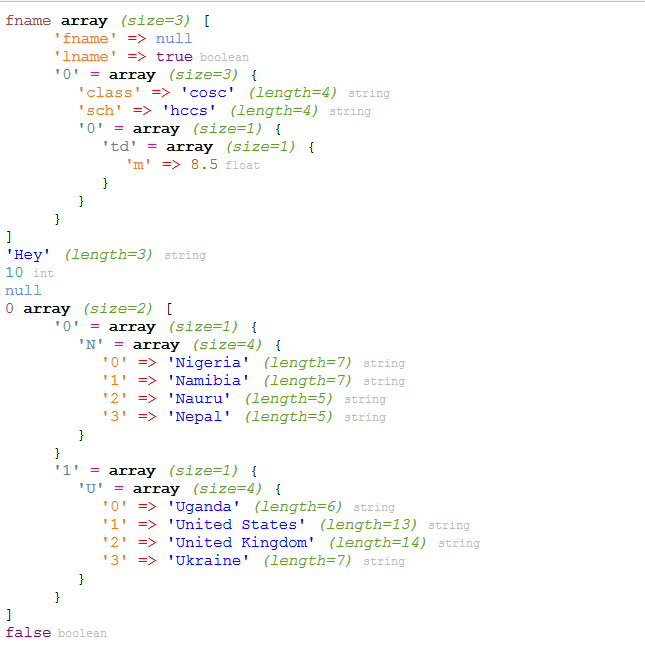
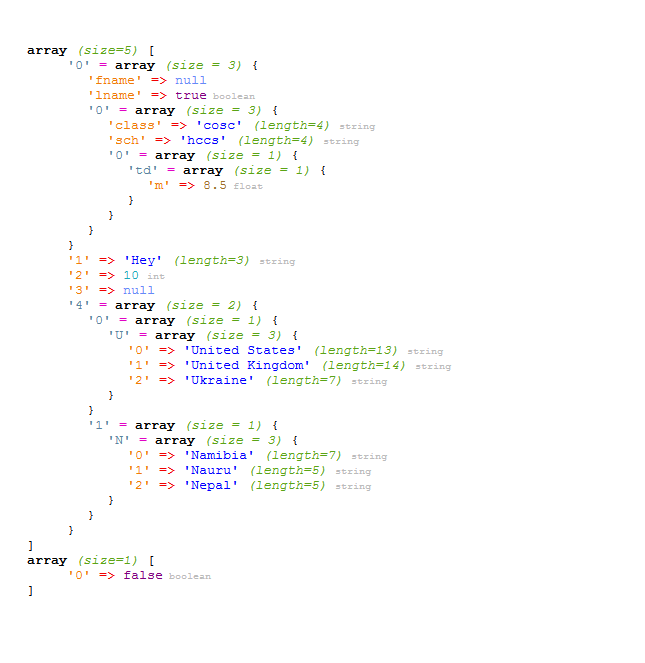
Array update

diff --git a/index.php b/index.php
@@ -8,8 +8,8 @@ $m[] = $c;
 
 $country = array
          (
-            array("N" => array('Nigeria', 'Namibia', 'Nauru', 'Nepal')),
-            array("U" => array('Uganda', 'United States', 'United Kingdom', 'Ukraine')),
+		 	array("U" => array('United States', 'United Kingdom', 'Ukraine')),
+            array("N" => array('Namibia', 'Nauru', 'Nepal')), 
          );
          
          
